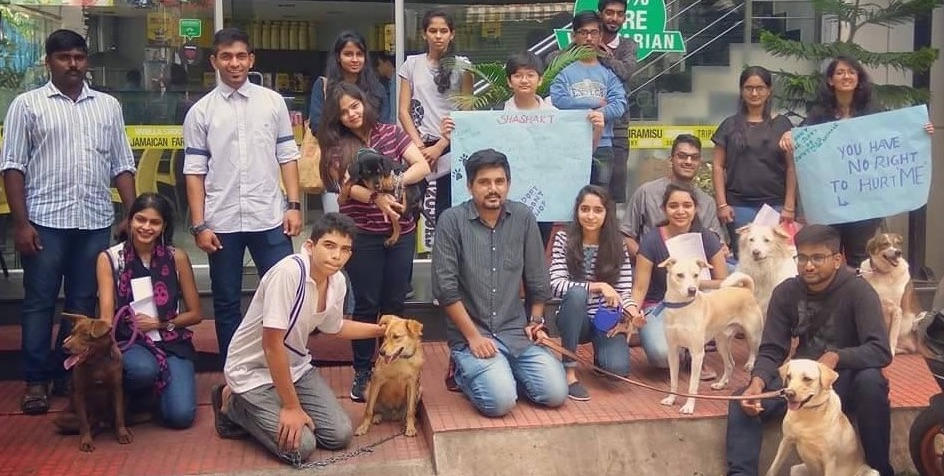
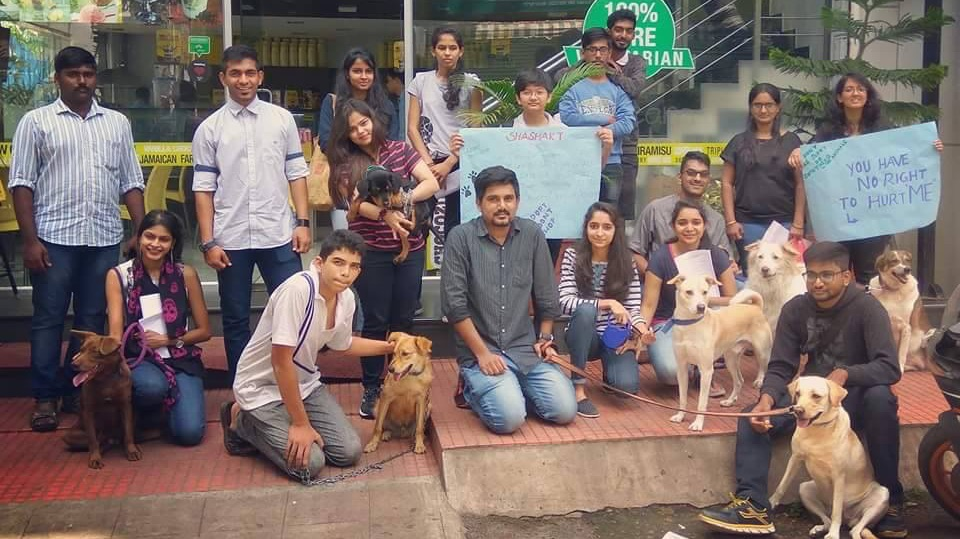
MVP

diff --git a/index.html b/index.html
@@ -185,7 +185,7 @@
                                     Ayu
                                 </div>
                                 <div class="project-name">
-                                    Educating kids @World Environment Day
+                                    Protesting for Animal Rights 
                                 </div>
                             </div>
                         </div>
